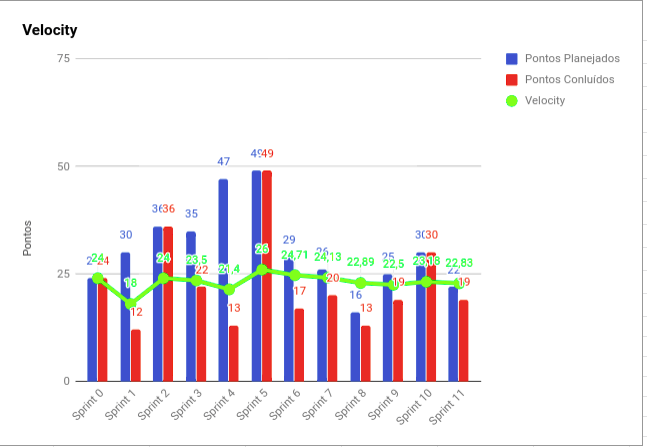
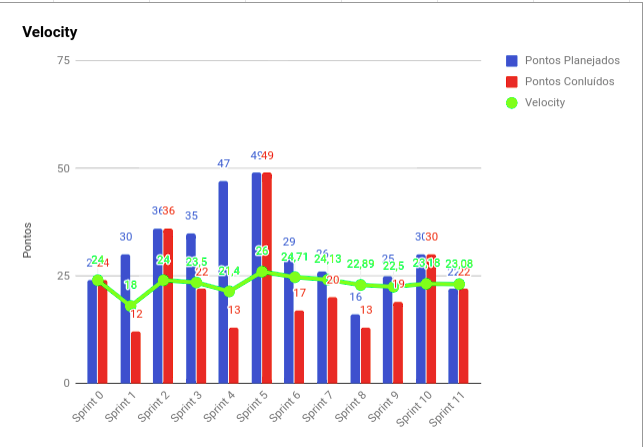
Adding tech leader vision of sprint 11

diff --git a/sprints/sprint11/resultado.md b/sprints/sprint11/resultado.md
@@ -48,3 +48,9 @@
 
 
 # 2. Visão do Tech Leader
+Essa sprint foi um pouco atípica, pois teve um feriado, onde várias pessoas de EPS estariam viajando (viagens marcadas há um tempo), o que acabou prejudicando um pouco o andamento do projeto. Apesar disso, a equipe tem se mostrado bastante auto-gerenciável. Pois todas as tarefas foram concluídas e a equipe conseguiu se planejar mesmo com a ausência da maioria de EPS. 
+
+O velocity se manteve constante, o que mostra uma boa produtividade da equipe. Porém a comunicação tem se mostrado um grande gargalo na equipe, ainda mais com as viagens dos membros. 
+
+As práticas ágeis foram aplicadas, com reuniões diárias via Telegram (porém, nem todos os membros estão levando a sério a DAILY, mesmo insistindo) e reuniões semanais de planejamento ocorrida no início da sprint. Além das reuniões de retrospectiva e revisão ocorridas no final da sprint. Essas reuniões ocorrem todos os sábados presencialmente. A reunião presencial ocorreu, mesmo com somente um membro de EPS.
+
